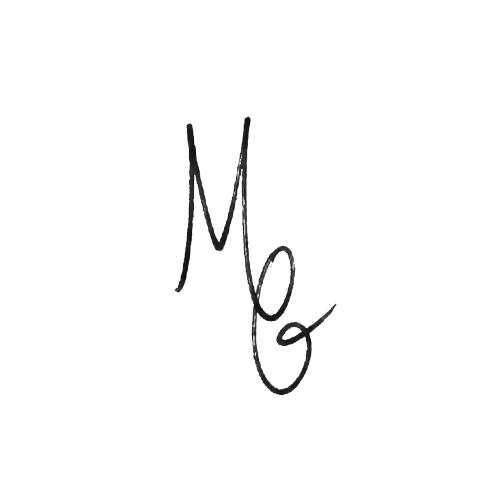
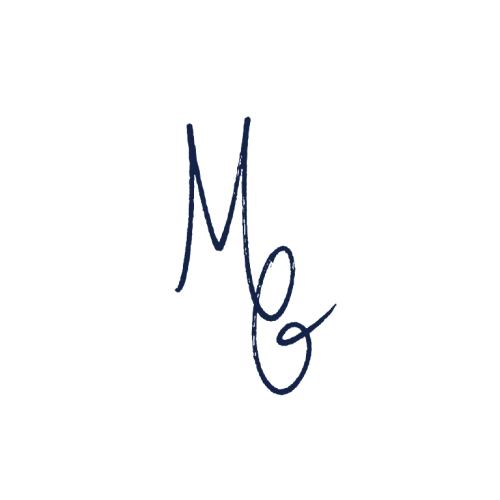
perf(portfolio): defer offscreen images and simplify signature painting

diff --git a/src/sections/Contact.tsx b/src/sections/Contact.tsx
@@ -1,2 +1,2 @@
 import { links } from '../config/links';
-export function Contact(){return <footer id="contato" className="contact-section navy-section"><div className="container"><h2>Contato</h2><a className="contact-email" href={links.email}><img src="/logos/Gmail.webp" alt="" width="28" height="28"/>matheus.galdino.souza@ccc.ufcg.edu.br</a><div className="contact-links"><a href={links.linkedin} target="_blank" rel="noopener noreferrer"><img src="/icons/linkedin.svg" alt="" width="24" height="24"/>LinkedIn ↗</a><a href={links.github} target="_blank" rel="noopener noreferrer"><img src="/icons/github.svg" alt="" width="24" height="24"/>GitHub ↗</a><a href={links.phone}><img src="/logos/WhatsApp.webp" alt="" width="28" height="28"/>(83) 9 9162-3789</a></div></div></footer>}
+export function Contact(){return <footer id="contato" className="contact-section navy-section"><div className="container"><h2>Contato</h2><a className="contact-email" href={links.email}><img loading="lazy" src="/logos/Gmail.webp" alt="" width="28" height="28"/>matheus.galdino.souza@ccc.ufcg.edu.br</a><div className="contact-links"><a href={links.linkedin} target="_blank" rel="noopener noreferrer"><img loading="lazy" src="/icons/linkedin.svg" alt="" width="24" height="24"/>LinkedIn ↗</a><a href={links.github} target="_blank" rel="noopener noreferrer"><img loading="lazy" src="/icons/github.svg" alt="" width="24" height="24"/>GitHub ↗</a><a href={links.phone}><img loading="lazy" src="/logos/WhatsApp.webp" alt="" width="28" height="28"/>(83) 9 9162-3789</a></div></div></footer>}

diff --git a/src/components/HeroSignature.tsx b/src/components/HeroSignature.tsx
@@ -2,20 +2,15 @@ import { useId } from 'react';
 
 export function HeroSignature() {
   const maskId = useId();
-  const inkId = useId();
   return (
     <svg className="hero-signature" viewBox="160 105 185 300" aria-label="Rúbrica de Matheus Galdino" role="img">
       <defs>
-        <filter id={inkId} colorInterpolationFilters="sRGB">
-          <feFlood floodColor="#142449" />
-          <feComposite in2="SourceAlpha" operator="in" />
-        </filter>
         <mask id={maskId} maskUnits="userSpaceOnUse" x="0" y="0" width="500" height="500">
           <path className="signature-stroke" pathLength="1" fill="none" stroke="white" strokeWidth="16" strokeLinecap="round" strokeLinejoin="round"
             d="M177 291 C195 271 193 172 189 126 C191 174 207 256 218 249 C231 239 243 145 249 119 C238 200 242 268 253 306 C269 343 301 282 292 255 C282 223 251 281 253 331 C252 366 267 414 291 386 C312 361 314 331 297 324 C279 318 270 342 282 344 C301 345 327 317 335 305" />
         </mask>
       </defs>
-      <image href="/media/optimized/rubrica.webp" width="500" height="500" mask={`url(#${maskId})`} filter={`url(#${inkId})`} />
+      <image href="/media/optimized/rubrica.webp" width="500" height="500" mask={`url(#${maskId})`} />
     </svg>
   );
 }

diff --git a/src/components/ProjectCard.tsx b/src/components/ProjectCard.tsx
@@ -18,7 +18,7 @@ export function ProjectCard({ project }: { project: Project }) {
         {project.id === 'twinpulse' && <div className="project-visual"><LaptopMockup asset={media.twinpulse}/></div>}
         {project.id === 'whatsapp' && <div className="project-visual"><PhoneMockup src="/media/demonstracao-chatbot-editada.mp4" title="demonstração do WhatsApp Chatbot" poster="/media/chatbot-poster.jpg" aspectRatio="1220 / 2712"/></div>}
         <div className="project-copy">
-          <h3 className="project-title" id={`${project.id}-title`}>{projectLogos[project.id] && <img className="project-logo" src={projectLogos[project.id]} alt="" width="48" height="48"/>}{project.title}</h3>
+          <h3 className="project-title" id={`${project.id}-title`}>{projectLogos[project.id] && <img loading="lazy" className="project-logo" src={projectLogos[project.id]} alt="" width="48" height="48"/>}{project.title}</h3>
           <p className="project-status">{project.status}</p>
           <p className="project-description">{project.description}</p>
           <div className="contributions"><ul>{project.contributions.map(item => <li key={item}>{item}</li>)}</ul></div>

diff --git a/src/components/TeAjudoProject.tsx b/src/components/TeAjudoProject.tsx
@@ -5,7 +5,7 @@ import { teajudo } from '../content/pt-BR/projects';
 export function TeAjudoProject() {
   return <article id="teajudo" className="project project-teajudo" aria-labelledby="teajudo-title"><div className="teajudo-grid">
     <div className="project-copy">
-      <h3 id="teajudo-title" className="project-title"><img className="project-logo" src="/logos/teajudo.png" width="48" height="48" alt=""/>{teajudo.title}</h3>
+      <h3 id="teajudo-title" className="project-title"><img loading="lazy" className="project-logo" src="/logos/teajudo.png" width="48" height="48" alt=""/>{teajudo.title}</h3>
       <p className="project-status">{teajudo.status}</p>
       <p className="project-description">{teajudo.description}</p>
       <div className="contributions"><ul>

diff --git a/src/components/BeeThereProject.tsx b/src/components/BeeThereProject.tsx
@@ -8,7 +8,7 @@ export function BeeThereProject() {
     <div className="campus-editions beethere-project">
       <article id="beethere">
         <div>
-          <h3 className="project-title"><img className="project-logo project-logo--beethere" src="/logos/beethere.svg" alt="" width="48" height="48"/>{beethere.title}</h3>
+          <h3 className="project-title"><img loading="lazy" className="project-logo project-logo--beethere" src="/logos/beethere.svg" alt="" width="48" height="48"/>{beethere.title}</h3>
           <p className="project-status">{beethere.status}</p>
           <p className="project-description">{beethere.description}</p>
           <ul className="campus-bullets">{beethere.contributions.map(item => <li key={item}>{item}</li>)}</ul>

diff --git a/src/components/CryptoIllustration.tsx b/src/components/CryptoIllustration.tsx
@@ -31,9 +31,9 @@ export function CryptoIllustration() {
 
   return (
     <div ref={illustration} className="bitcoin-floats" aria-hidden="true">
-      <img src="/logos/bitcoin.png" width="160" height="160" alt=""/>
-      <img className="ethereum-float" src="/icons/ethereum.svg" width="70" height="100" alt=""/>
-      <img className="solana-float" src="/icons/solana.svg" width="90" height="80" alt=""/>
+      <img loading="lazy" src="/logos/bitcoin.png" width="160" height="160" alt=""/>
+      <img loading="lazy" className="ethereum-float" src="/icons/ethereum.svg" width="70" height="100" alt=""/>
+      <img loading="lazy" className="solana-float" src="/icons/solana.svg" width="90" height="80" alt=""/>
     </div>
   );
 }

diff --git a/src/components/LaptopMockup.tsx b/src/components/LaptopMockup.tsx
@@ -1,7 +1,5 @@
 import type { MediaAsset } from '../types/content';
 
-
-
 const keyboard = [
   ['esc','1','2','3','4','5','6','7','8','9','0','−','=','⌫'],
   ['tab','Q','W','E','R','T','Y','U','I','O','P','[',']'],
